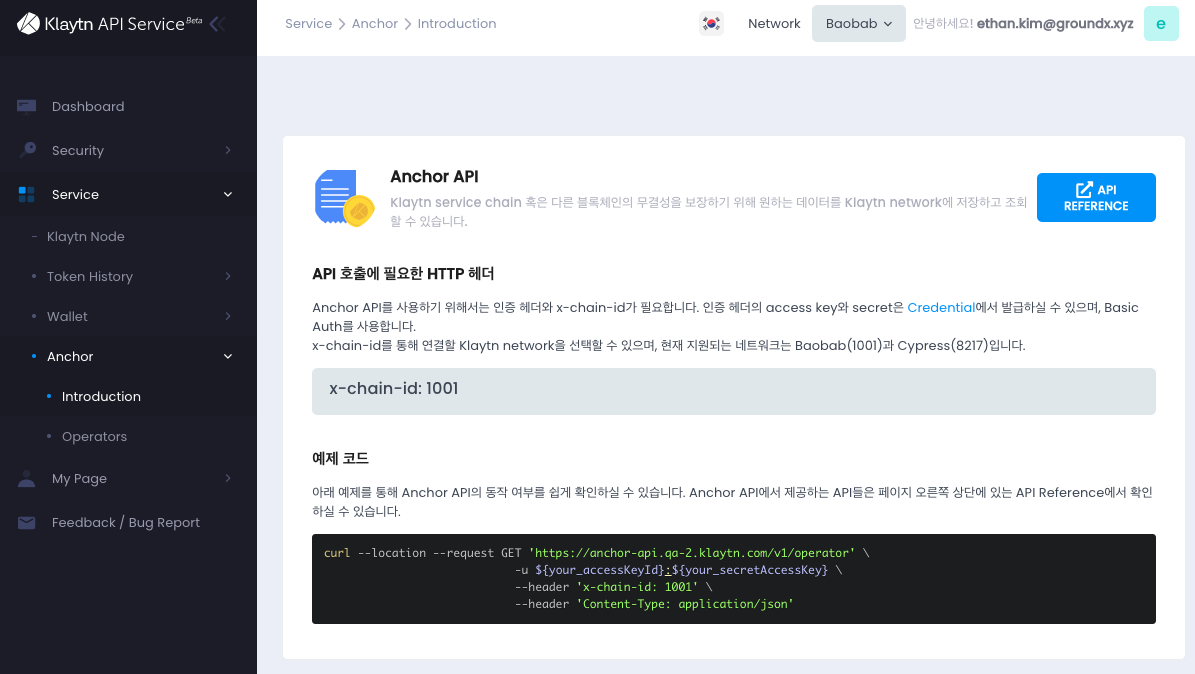
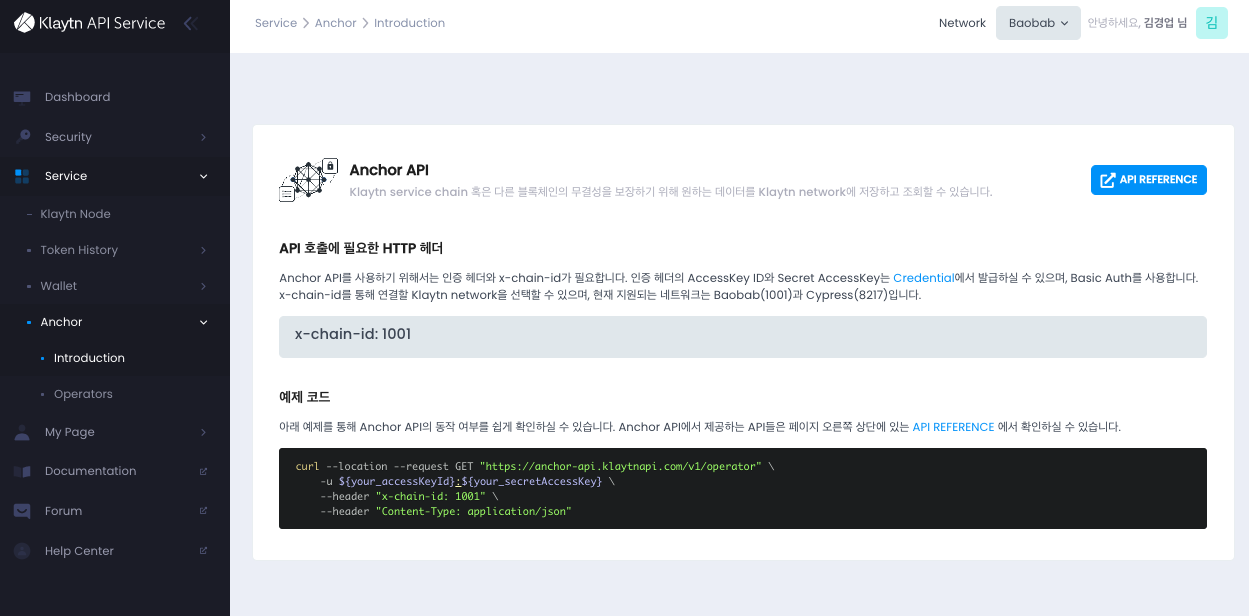
update en/ko pngs for kas anchor

diff --git a/docs/node/service-chain/references/kas-anchoring.md b/docs/node/service-chain/references/kas-anchoring.md
@@ -11,16 +11,20 @@ This section introduces the pre-requisites to use KAS for data anchoring.
 First, you need to sign up KAS on the [KAS console website](https://www.klaytnapi.com) to get a KAS account.
 Please visit the website above and sign up in KAS.
 
+[![main page](../images/kas-main-en.png)](https://www.klaytnapi.com)
+
+[![sign up](../images/kas-signup-en.png)](https://www.klaytnapi.com)
+
 ## Create Credential <a id="check-credential"></a>
 After login, you can create your credential like below.
 The `AccessKey ID` and `Secret AccessKey`, or `Authorization` will be used to call KAS APIs.
 
-![credential](../images/kas-credential-ko.png)
+![credential](../images/kas-credential-en.png)
 
 ## Anchor API <a id="anchor-api"></a>
 KAS provides Anchor API, which is designed for data anchoring and surely it is the one that you are going to use for anchoring task.
 
-![anchor api](../images/kas-anchor-api-ko.png)
+![anchor api](../images/kas-anchor-api-en.png)
 
 ## Create Operator Address <a id="create-kas-credential"></a>
 To anchor service chain data via KAS, there should be a Klaytn address, enrolled in KAS, that actually send anchoring transaction to Klaytn. So, before you set up your service node, you need to create an Klaytn account called "operator" via KAS. Please, use KAS console to create this account. 
@@ -29,16 +33,16 @@ It is important to be noticed that you must **first select the chain** in Klaytn
 
 
 
-![select chain](../images/kas-select-chain-ko.png)
+![select chain](../images/kas-select-chain-en.png)
 
 Create an operator as below.
 
-![create operator](../images/kas-create-operator-ko.png)
+![create operator](../images/kas-create-operator-en.png)
 
 Then, you can check your operator list like below.
 Please note that the address of an operator is required for setting your service chain node.
 
-![create operator](../images/kas-operator-list-ko.png)
+![create operator](../images/kas-operator-list-en.png)
 
 ## Configure Service Chain Node <a id="configure-service-chain-node"></a>
 After obtaining API credentials, Anchor API information (API endpoint and parameters), and an operator account in KAS, then It is time to set up your service chain node.
@@ -85,4 +89,4 @@ INFO[09/10,18:09:32 +09] [53] Anchored a block via KAS                  blkNum=8
 ## List of Transaction <a id="list-of-transaction"></a>
 In KAS console website, you can see the list of anchoring transactions that the operator of your service chain has sent at "KAS Console - Service - Anchor - Operators" menu like below.
 
-![anchoring transaction list](../images/kas-tx-list-ko.png)
+![anchoring transaction list](../images/kas-tx-list-en.png)
